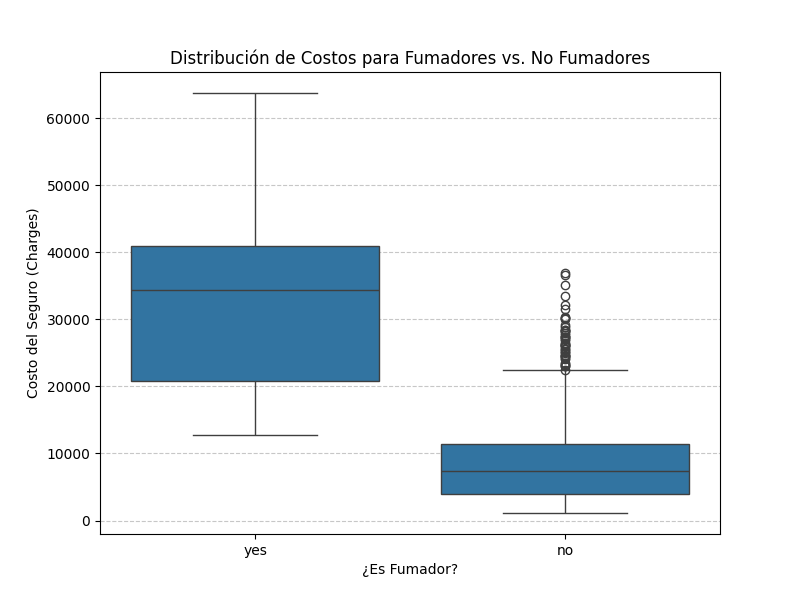
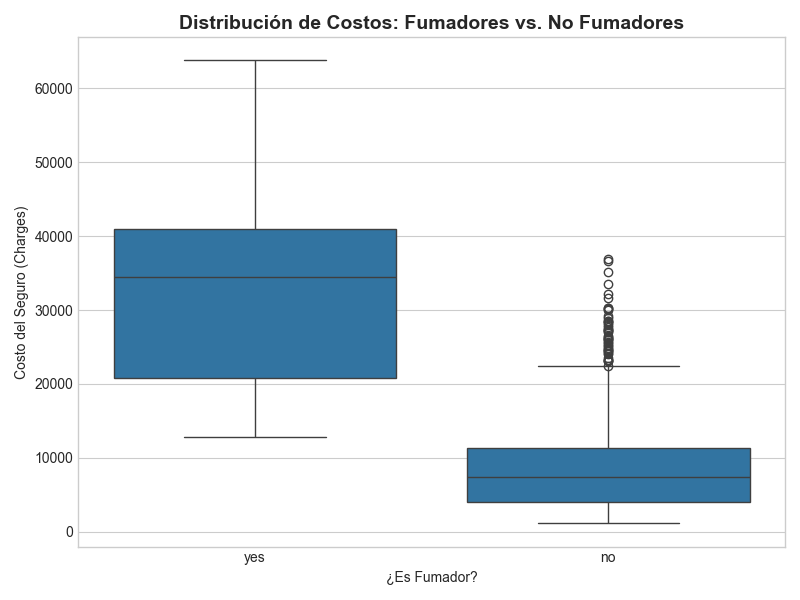
Readme v2

diff --git a/src/medicalcost/pipelines/model_regression/nodes.py b/src/medicalcost/pipelines/model_regression/nodes.py
@@ -111,6 +111,7 @@ def plot_univariate_regressions(
     X_age = df_raw[["age"]]
     y_age = df_raw["charges"]
     model_age = LinearRegression()
+    plt.style.use("seaborn-v0_8-whitegrid")
     model_age.fit(X_age, y_age)
 
     fig_age_vs_charges, ax_age = plt.subplots(figsize=(10, 6))
@@ -122,10 +123,16 @@ def plot_univariate_regressions(
         scatter_kws={"alpha": 0.5},
         ax=ax_age,
     )
-    ax_age.set_title("Regresión Lineal: Costos del Seguro vs. Edad")
+    r2_age = r2_score(y_age, model_age.predict(X_age))
+    ax_age.set_title(
+        f"Regresión Lineal: Costos vs. Edad (R² = {r2_age:.2f})",
+        fontsize=14,
+        weight="bold",
+    )
     ax_age.set_xlabel("Edad")
     ax_age.set_ylabel("Costo del Seguro (Charges)")
-    ax_age.grid(True)
+    ax_age.grid(True, which="both", linestyle="--", linewidth=0.5)
+    fig_age_vs_charges.tight_layout()
 
     # Plot BMI vs. charges
     X_bmi = df_raw[["bmi"]]
@@ -142,18 +149,26 @@ def plot_univariate_regressions(
         scatter_kws={"alpha": 0.5},
         ax=ax_bmi,
     )
-    ax_bmi.set_title("Regresión Lineal: Costos del Seguro vs. IMC (BMI)")
+    r2_bmi = r2_score(y_bmi, model_bmi.predict(X_bmi))
+    ax_bmi.set_title(
+        f"Regresión Lineal: Costos vs. IMC (R² = {r2_bmi:.2f})",
+        fontsize=14,
+        weight="bold",
+    )
     ax_bmi.set_xlabel("Índice de Masa Corporal (BMI)")
     ax_bmi.set_ylabel("Costo del Seguro (Charges)")
-    ax_bmi.grid(True)
+    ax_bmi.grid(True, which="both", linestyle="--", linewidth=0.5)
+    fig_bmi_vs_charges.tight_layout()
 
     # Plot smoker vs. charges
     fig_smoker_vs_charges, ax_smoker = plt.subplots(figsize=(8, 6))
     sns.boxplot(x="smoker", y="charges", data=df_raw, ax=ax_smoker)
-    ax_smoker.set_title("Distribución de Costos para Fumadores vs. No Fumadores")
+    ax_smoker.set_title(
+        "Distribución de Costos: Fumadores vs. No Fumadores", fontsize=14, weight="bold"
+    )
     ax_smoker.set_xlabel("¿Es Fumador?")
     ax_smoker.set_ylabel("Costo del Seguro (Charges)")
-    ax_smoker.grid(True, axis="y", linestyle="--", alpha=0.7)
+    fig_smoker_vs_charges.tight_layout()
 
     univariate_output = f"Ecuación (Edad): charges = {model_age.coef_[0]:.2f} * age + {model_age.intercept_:.2f}\n\n"
     univariate_output += f"Ecuación (IMC): charges = {model_bmi.coef_[0]:.2f} * bmi + {model_bmi.intercept_:.2f}\n\n"

diff --git a/src/medicalcost/pipelines/model_classification/nodes.py b/src/medicalcost/pipelines/model_classification/nodes.py
@@ -329,14 +329,14 @@ def create_classification_summary(
     summary += "Después de una rigurosa evaluación y optimización, los resultados finales hablaron por sí mismos.\n\n"
     summary += "| Modelo | Accuracy (Precisión Final) |\n"
     summary += "| :--- | :---: |\n"
-    summary += f"| Regresión Logística | {accuracy_log:.2f}% |\n"
-    summary += f"| Support Vector Classifier (SVC) | {accuracy_best_svc:.2f}% |\n"
-    summary += f"| XGBoost | {accuracy_best_xgb:.2f}% |\n"
-    summary += f"| **Random Forest** | **{accuracy_best_rf:.2f}%** |\n\n"
+    summary += f"| Regresión Logística | {accuracy_log * 100:.2f}% |\n"
+    summary += f"| Support Vector Classifier (SVC) | {accuracy_best_svc * 100:.2f}% |\n"
+    summary += f"| XGBoost | {accuracy_best_xgb * 100:.2f}% |\n"
+    summary += f"| **Random Forest** | **{accuracy_best_rf * 100:.2f}%** |\n\n"
     summary += "---\n\n"
     summary += (
         "> El modelo **Random Forest optimizado** es el campeón indiscutible de este análisis, logrando la mayor precisión con un **"
-        + f"{accuracy_best_rf:.2f}%"
+        + f"{accuracy_best_rf * 100:.2f}%"
         + "**.\n\n"
     )
     summary += "Este proyecto demuestra una lección clave en la ciencia de datos: el algoritmo más complejo no siempre es el mejor. La experimentación y la validación rigurosa son esenciales para descubrir la solución óptima para un problema específico.\n\n"

diff --git a/README.md b/README.md
@@ -1,10 +1,10 @@
-# Medical Cost Prediction
+<h1 align="center">🏥 Medical Cost Prediction 🏥</h1>
 
 [![Powered by Kedro](https://img.shields.io/badge/powered_by-kedro-ffc900?logo=kedro)](https://kedro.org)
 
-## Visión General
+## 🎯 Visión General
 
-Este proyecto Kedro implementa un pipeline de ciencia de datos de extremo a extremo para predecir los costos de seguros médicos y clasificar a los pacientes en categorías de costo. La solución utiliza el conjunto de datos "Medical Insurance Cost Dataset", disponible en [Kaggle: Medical Insurance Cost Dataset](https://www.kaggle.com/datasets/mosapabdelghany/medical-insurance-cost-dataset), que contiene información demográfica y de salud de individuos. El pipeline ingiere estos datos crudos, los procesa para garantizar su calidad, entrena y evalúa modelos de regresión para predecir costos exactos, y modelos de clasificación para predecir si un paciente incurrirá en costos "Altos" o "Bajos". Finalmente, evalúa y visualiza el rendimiento de todos los modelos.
+Este proyecto Kedro implementa un pipeline de ciencia de datos de extremo a extremo para predecir los costos de seguros médicos y clasificar a los pacientes en categorías de costo. La solución utiliza el conjunto de datos "Medical Insurance Cost Dataset", disponible en [Kaggle](https://www.kaggle.com/datasets/mosapabdelghany/medical-insurance-cost-dataset), que contiene información demográfica y de salud de individuos. El pipeline ingiere estos datos crudos, los procesa para garantizar su calidad, entrena y evalúa modelos de regresión para predecir costos exactos, y modelos de clasificación para predecir si un paciente incurrirá en costos "Altos" o "Bajos".
 
 El objetivo es demostrar un flujo de trabajo de Machine Learning estructurado y reproducible, donde cada paso, desde la limpieza de datos hasta la generación de reportes, está encapsulado en un pipeline modular y robusto.
 
@@ -16,88 +16,66 @@ La hipótesis central de este análisis es que **factores demográficos y de sal
 
 ---
 ## Estructura del Proyecto
+<div align="center">
 
-El proyecto se organiza en los siguientes pipelines principales:
-
-*   **`data_processing`**: Se enfoca en la limpieza y preparación inicial de los datos. Toma los datos crudos, elimina filas con valores nulos y duplicados, y realiza la codificación de variables categóricas (One-Hot Encoding) para preparar los datos para ambos tipos de modelado (regresión y clasificación). Guarda los datos procesados listos para el modelado.
-*   **`model_regression`**: Contiene la lógica para el modelado de regresión. Este pipeline:
-    *   Divide los datos limpios en conjuntos de entrenamiento y prueba.
-    *   Entrena un modelo de Regresión Lineal Múltiple para predecir los costos de seguros.
-    *   Evalúa el modelo utilizando métricas como R-cuadrado.
-    *   Genera gráficos de regresión univariada, interacción y correlación.
-    *   Guarda el modelo entrenado y los resultados de la evaluación.
-*   **`model_classification`**: Contiene la lógica para el modelado de clasificación. Este pipeline:
-    *   Transforma el problema de regresión en uno de clasificación, creando una variable objetivo binaria ('Alto'/'Bajo' costo) basada en la mediana de los cargos.
-    *   Divide los datos limpios en conjuntos de entrenamiento y prueba (estratificado).
-    *   Entrena y ajusta hiperparámetros para múltiples modelos de clasificación (Regresión Logística, Random Forest, XGBoost, SVC), utilizando **GridSearchCV con validación cruzada K-Fold** para una evaluación robusta.
-    *   Evalúa cada modelo utilizando métricas como Accuracy y Classification Report.
-    *   Compara los modelos y selecciona el de mejor rendimiento.
-    *   Guarda los modelos entrenados y los resultados de la evaluación.
+```
+src/medicalcost/pipelines/
+├── data_engineering/     # 1. 📥 Descarga y carga de datos crudos desde Kaggle.
+│
+├── data_processing/      # 2. 🧼 Limpieza, validación y conversión de tipos de datos.
+│
+├── model_regression/     # 3. 📈 Entrenamiento y evaluación del modelo de Regresión Lineal.
+│   │                     #    - Predice el costo exacto del seguro.
+│   │                     #    - Genera reportes y gráficos de regresión.
+│   └─ nodes.py
+│
+└── model_classification/ # 4. 📊 Entrenamiento y evaluación de modelos de Clasificación.
+    │                     #    - Predice si el costo será 'Alto' o 'Bajo'.
+    │                     #    - Compara Regresión Logística, SVC, XGBoost y Random Forest.
+    │                     #    - Optimiza hiperparámetros con GridSearchCV.
+    └─ nodes.py
+```
+</div>
 
 ---
 
-## Resultados y Visualización
+## ⚙ Preparación de Datos
 
-### Desafíos Técnicos Solucionados en la Preparación de Datos
-
-*   **Manejo de Datos Nulos y Duplicados**: El pipeline identifica y elimina sistemáticamente registros con valores faltantes y filas duplicadas para asegurar la calidad del dataset.
+*   **Manejo de Datos Nulos**: El pipeline identifica y elimina sistemáticamente registros con valores faltantes para asegurar la calidad del dataset.
 *   **Codificación de Variables Categóricas**: Se transformaron variables como `sex`, `smoker` y `region` en formatos numéricos (One-Hot Encoding) para que los modelos pudieran procesarlas.
-*   **Creación de Variable Objetivo Binaria para Clasificación**: Se transformó la variable `charges` en una variable binaria `cost_category` ('Alto'/'Bajo') para el problema de clasificación, utilizando la mediana como umbral.
-*   **Automatización del Flujo de Datos**: Al encapsular todo el proceso de limpieza y preparación en pipelines de Kedro, se garantiza que los datos para el modelado sean completamente automatizados y reproducibles.
+*   **Creación de Variable Objetivo para Clasificación**: Se transformó la variable `charges` en una variable binaria `cost_category` ('Alto'/'Bajo') para el problema de clasificación, utilizando la mediana como umbral.
+*   **Automatización del Flujo de Datos**: Al encapsular todo el proceso en pipelines de Kedro, se garantiza que los datos para el modelado sean completamente automatizados y reproducibles.
 
 ---
 
-## Resultados del Modelo (Pipeline Kedro)
+## 💡 Resultados del Modelo
 
 Esta sección presenta las conclusiones detalladas y los artefactos generados por los pipelines de Kedro, que encapsulan el proceso de modelado predictivo para la regresión de costos y la clasificación de categorías de costo. Hemos realizado un análisis comparativo exhaustivo de múltiples modelos, incluyendo un riguroso ajuste de hiperparámetros para los modelos de clasificación mediante **validación cruzada K-Fold (Stratified K-Fold)**.
 
-Los pipelines de modelado y `reporting` se encargan de consolidar y visualizar estos resultados, proporcionando una visión clara del rendimiento de cada modelo y los factores clave que influyen en los costos de seguros médicos.
-
 ### Modelos de Regresión
 
-El modelo de Regresión Lineal Múltiple entrenado en el pipeline `model_regression` obtuvo una precisión (R-cuadrado) de aproximadamente **0.7836**.
+El modelo de Regresión Lineal Múltiple entrenado en el pipeline `model_regression` obtuvo un **R-cuadrado de 0.7836**.
 
-**Detalles del Modelo de Regresión Lineal:**
-*   **`R-cuadrado del modelo de regresión: 0.7836`**
-*   **`Coeficientes del modelo de regresión:`**
-*   **`Intercept: -12050.84`**
-*   **`age: 257.33`**
-*   **`bmi: 337.31`**
-*   **`children: 474.59`**
-*   **`sex_male: -131.31`**
-*   **`smoker_yes: 23600.54`**
-*   **`region_northwest: -352.97`**
-*   **`region_southeast: -1033.67`**
-*   **`region_southwest: -959.69`**
-
-**Impacto de cada variable en el costo (Regresión Lineal):**
-*   **`smoker_yes`**: Es, por un margen enorme, el factor más determinante, aumentando el costo en más de $23,600.
-*   **`age`** y **`bmi`**: Son los siguientes factores más importantes, aumentando el costo en ~$257 y ~$337 por cada unidad, respectivamente.
-*   **`children`**: También tiene un impacto positivo notable.
-*   **`sex_male`** y la **`region`**: Tienen un impacto mucho menor y, en algunos casos, negativo en comparación con la categoría de referencia.
+**Impacto de cada variable en el costo:**
+*   **`smoker_yes`**: Es, por un margen enorme, el factor más determinante. Aumenta el costo en **+$23,600**.
+*   **`age`** y **`bmi`**: Son los siguientes factores más importantes, aumentando el costo en **+$257** y **+$337** por cada unidad, respectivamente.
+*   **`children`**: También tiene un impacto positivo notable (+$474 por hijo).
+*   **`sex_male`** y la **`region`**: Tienen un impacto mucho menor y, en algunos casos, negativo.
 
 ### Modelos de Clasificación: Random Forest es el Modelo con Mejor Rendimiento
 
-Tras el ajuste de hiperparámetros, el modelo **Random Forest** demostró ser el más efectivo para la clasificación de costos, obteniendo la mayor precisión:
+Tras el ajuste de hiperparámetros, el modelo **Random Forest** demostró ser el más efectivo para la clasificación de costos:
 
 | Modelo | Accuracy (Precisión Final) |
 | :--- | :---: |
-| Regresión Logística | 90.00% |
+| Regresión Logística | 89.93% |
 | Support Vector Classifier (SVC) | 92.54% |
 | XGBoost | 92.91% |
 | **Random Forest** | **94.03%** |
 
-**Resultados Detallados de los Modelos de Clasificación:**
-
-Resultados de los modelos de clasificación:
-*   **`Regresión Logística - Accuracy: 0.9000`**
-*   **`Support Vector Classifier (SVC) - Accuracy: 0.9254`**
-*   **`XGBoost - Accuracy: 0.9291`**
-*   **`Random Forest - Accuracy: 0.9403`**
-
-Este resultado sugiere que, para el problema de clasificación de costos médicos en este dataset, el Random Forest es el modelo más robusto y con mayor capacidad para distinguir entre pacientes de "alto" y "bajo" costo.
-
-### Visualización Detallada del Rendimiento y Análisis Exploratorio
+> 🏆 El modelo **Random Forest optimizado** es el campeón indiscutible de este análisis, logrando la mayor precisión.
+---
+### 📊 Visualización de Resultados
 
 Los pipelines generan diversas visualizaciones para entender el comportamiento de los datos y el rendimiento de los modelos.
 
@@ -123,35 +101,13 @@ Los pipelines generan diversas visualizaciones para entender el comportamiento d
 *   **Heatmap de Resultados de GridSearchCV para SVC**: Visualiza el impacto de los hiperparámetros en la precisión del modelo SVC.
     ![Heatmap de Resultados de GridSearchCV para SVC (Accuracy Promedio)](data/08_reporting/svc_grid_search_heatmap.png)
 
-### La Importancia del Ajuste de Hiperparámetros
-
-El proceso de ajuste de hiperparámetros mediante GridSearchCV, utilizando **validación cruzada K-Fold**, fue fundamental para optimizar el rendimiento de todos los modelos de clasificación. Se observaron mejoras significativas en la precisión para la mayoría de los modelos.
-
-### Robustez de los Modelos de Ensamble
-
-Como era de esperar, Random Forest y XGBoost, al ser algoritmos de ensamble, superaron consistentemente a la Regresión Logística y SVC en este problema. Los modelos de ensamble son inherentemente más robustos, reducen el sobreajuste y mejoran la capacidad de generalización.
-
-### No hay un "Ganador" Universal
-
-Aunque Random Forest demostró ser el mejor en este caso, esta observación resalta la importancia de:
-
-*   **Evaluar múltiples algoritmos:** No hay un "mejor" algoritmo universal; el rendimiento óptimo depende de las características específicas del dataset.
-*   **Ajuste exhaustivo:** Cada algoritmo requiere un ajuste cuidadoso de sus hiperparámetros para maximizar su potencial en un problema dado.
-
-### Importancia de las Características
-
-Todos los modelos proporcionaron información valiosa sobre la **importancia de las características**. Esta información es crucial para comprender qué factores (edad, IMC, fumador, etc.) son los más influyentes en los costos de seguros médicos. Estos conocimientos pueden ser utilizados para:
-
-*   Refinar el modelo en futuras iteraciones.
-*   Obtener insights sobre los factores de riesgo en seguros de salud.
-
 ---
 
 **En resumen:** El **Random Forest** es el modelo recomendado para la clasificación de costos médicos en este proyecto, debido a su consistente y superior rendimiento en términos de precisión después de un riguroso ajuste de hiperparámetros. El análisis de regresión también confirmó la importancia crítica de factores como el hábito de fumar, la edad y el IMC en la determinación de los costos.
 
 ---
 
-## Configuración
+## 🔑 Configuración de Kaggle
 
 Para poder ejecutar este pipeline, es necesario configurar las credenciales de la API de Kaggle.
 
@@ -168,13 +124,13 @@ Una vez completados estos pasos, el pipeline podrá autenticarse con Kaggle para
 
 ---
 
-## Instalación y Ejecución
+## 🚀 Instalación y Ejecución
 
 Sigue estos pasos para configurar y ejecutar el proyecto en tu máquina local. Se requiere Python 3.11.9.
 
 ### 1. Clonar el Repositorio
 
-Primero, clona este repositorio en tu máquina.
+Primero, clona este repositorio.
 
 ```bash
 git clone https://github.com/J-Lopez-IICG/MedicalCostKedro.git
@@ -208,7 +164,7 @@ pip install -r requirements.txt
 
 Con las dependencias instaladas, puedes ejecutar el pipeline completo con un solo comando.
 
-```bash
+```sh
 kedro run
 ```
 
@@ -216,7 +172,7 @@ Esto ejecutará todos los nodos en secuencia, generando los datos limpios, los m
 
 ---
 
-## Desarrollo con Notebooks
+## 📓 Desarrollo con Notebooks
 
 La carpeta `notebooks` contiene los Jupyter Notebooks utilizados durante la fase de exploración y desarrollo.
 
@@ -229,9 +185,3 @@ kedro jupyter notebook
 ```
 
 > **Nota**: Al usar estos comandos, Kedro inicia el notebook con las variables `context`, `session`, `catalog` y `pipelines` ya cargadas, facilitando la interacción con los datos y funciones del proyecto.
-
-## Reglas y Directrices
-
-*   No elimines ninguna línea del archivo `.gitignore`.
-*   No subas datos al repositorio (la carpeta `data/` está ignorada por defecto).
-*   No subas credenciales o configuraciones locales. Mantenlas en la carpeta `conf/local/`.
